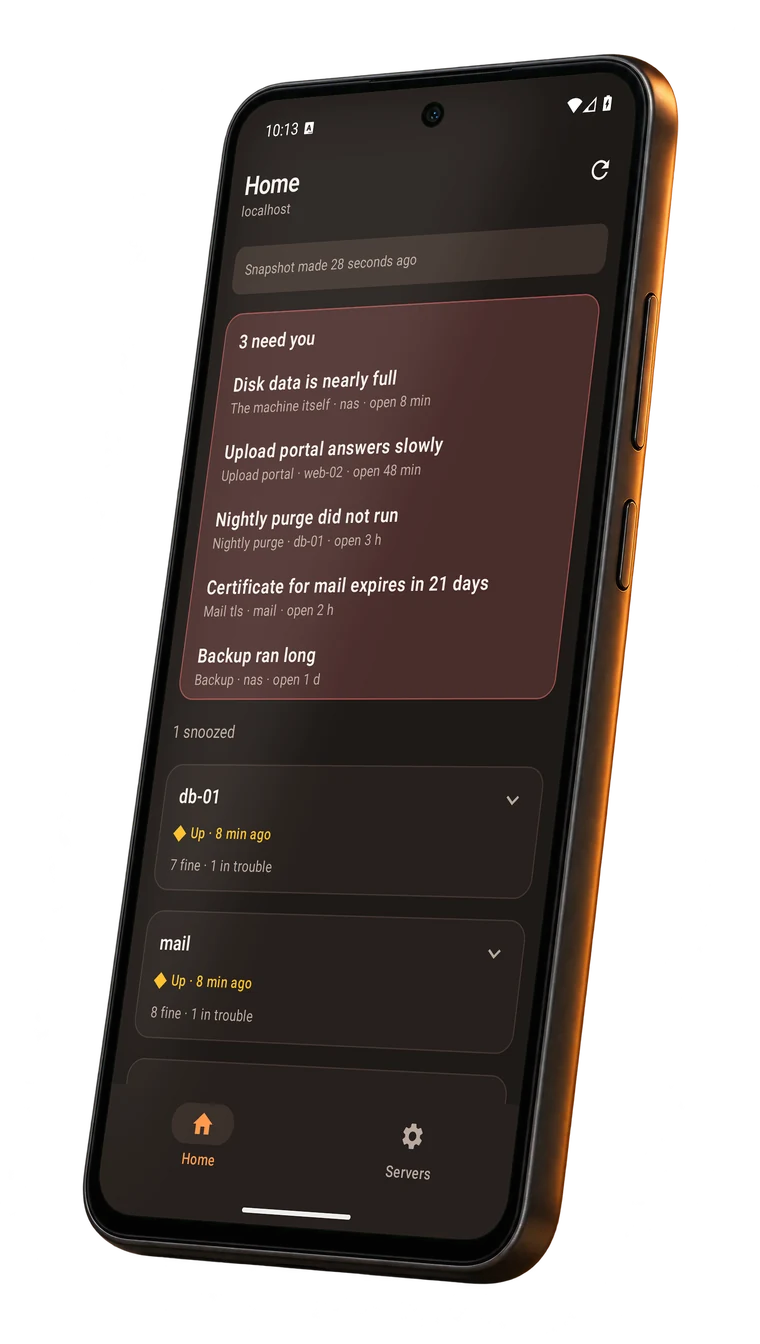
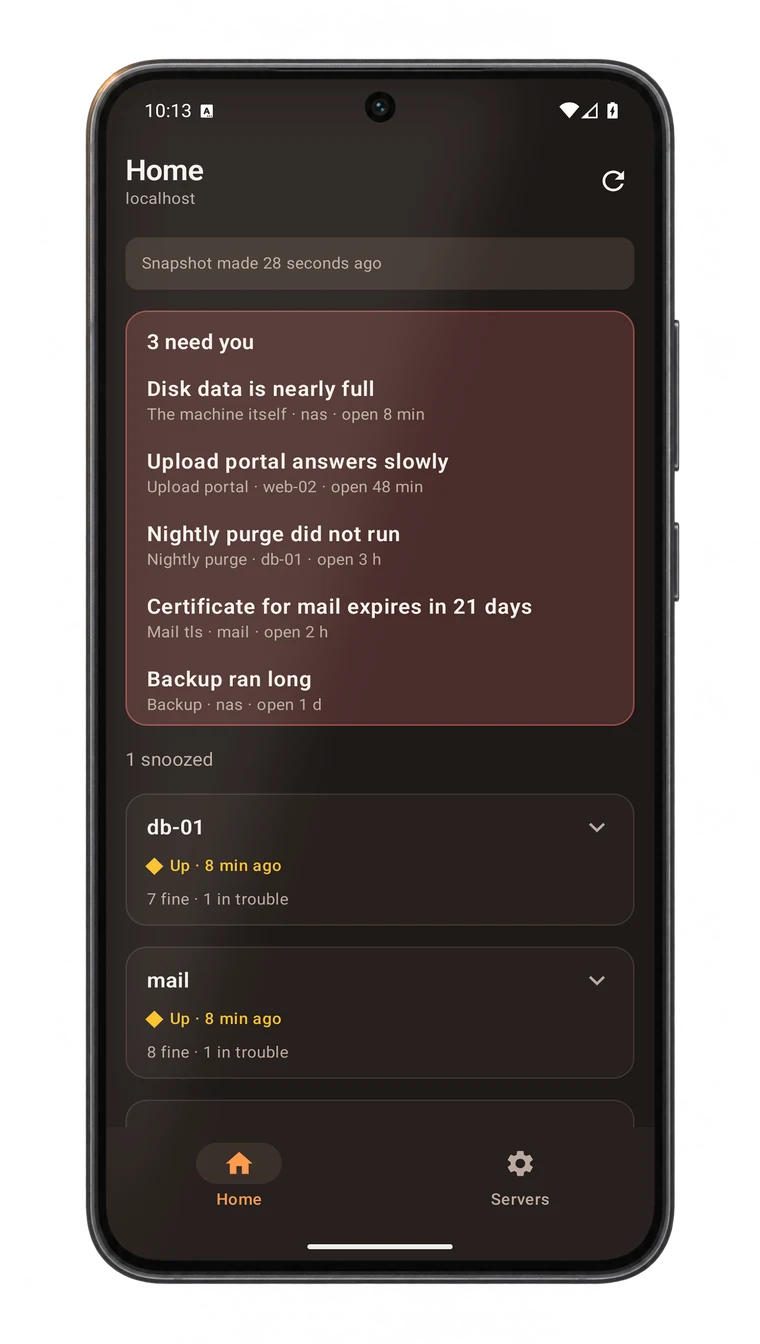
Phone page uses the straight-on graphite phone

Changed region(s): [[0.0908, 0.0312, 0.9079, 0.9688], [0.5145, 0.8438, 0.575, 0.875]]

diff --git a/gallery/brand/phone.html b/gallery/brand/phone.html
@@ -10,7 +10,7 @@
 <link rel="preconnect" href="https://fonts.googleapis.com">
 <link rel="preconnect" href="https://fonts.gstatic.com" crossorigin>
 <link rel="stylesheet" href="https://fonts.googleapis.com/css2?family=Bricolage+Grotesque:opsz,wght@12..96,500;12..96,700&family=Hanken+Grotesk:wght@400;500;600&family=IBM+Plex+Mono:wght@400;500&display=swap">
-<link rel="stylesheet" href="site.css?v=15">
+<link rel="stylesheet" href="site.css?v=16">
 <script>(() => { let m = null; try { m = localStorage.getItem("motion"); } catch {} const on = m ? m === "on" : !matchMedia("(prefers-reduced-motion: reduce)").matches; if (!on) document.documentElement.classList.add("still"); })();</script>
 </head>
 <body>
@@ -56,7 +56,7 @@
           <div class="node" id="nRelay"><b>A relay</b><small>on any public host</small><em class="blind">cannot read it</em></div>
           <div class="wire"><i></i></div>
           <div class="node phone-node" id="nPhone">
-            <div class="handset"><img src="img/phone.webp" width="760" height="1344" alt="The Dokkit app for Android, showing what needs you on a sample company"><i class="screen-off" id="screenOff" aria-hidden="true"></i></div>
+            <div class="handset"><img src="img/phone.webp?v=2" width="760" height="1344" alt="The Dokkit app for Android, showing what needs you on a sample company"><i class="screen-off" id="screenOff" aria-hidden="true"></i></div>
           </div>
           <div class="env" id="env" aria-hidden="true"><svg><use href="#lock"/></svg></div>
         </div>
@@ -131,8 +131,8 @@
 <script src="https://cdnjs.cloudflare.com/ajax/libs/gsap/3.12.5/gsap.min.js"></script>
 <script src="https://cdnjs.cloudflare.com/ajax/libs/gsap/3.12.5/ScrollTrigger.min.js"></script>
 <script src="https://unpkg.com/lenis@1.1.13/dist/lenis.min.js"></script>
-<script src="site.js?v=15"></script>
-<script src="phone.js?v=15"></script>
-<script src="motion.js?v=15"></script>
+<script src="site.js?v=16"></script>
+<script src="phone.js?v=16"></script>
+<script src="motion.js?v=16"></script>
 </body>
 </html>

diff --git a/gallery/brand/site.css b/gallery/brand/site.css
@@ -374,7 +374,7 @@ html.held { overflow: hidden; }
 .phone-node { padding: 14px; justify-items: center; background: none; border: 0; }
 .handset { position: relative; width: 100%; max-width: 270px; }
 .handset img { display: block; width: 100%; height: auto; filter: drop-shadow(0 30px 40px #000a); }
-.screen-off { position: absolute; inset: 0; background: #0c0a09; clip-path: polygon(32.2% 7.9%, 84.4% 5.3%, 66.2% 92.4%, 12.7% 90.1%); opacity: 0; }
+.screen-off { position: absolute; inset: 0; background: #0c0a09; clip-path: inset(5.95% 14.08% 6.32% 14.08% round 9% / 5%); opacity: 0; }
 .env { position: absolute; left: 0; top: 0; width: 44px; height: 44px; display: grid; place-items: center; border-radius: 12px; background: var(--acc); color: var(--acc-ink); box-shadow: 0 10px 20px -10px #000; --shut: 0; }
 .env svg { width: 22px; height: 22px; }
 .env .shackle { transform: translateY(calc((1 - var(--shut)) * -3.5px)); }
